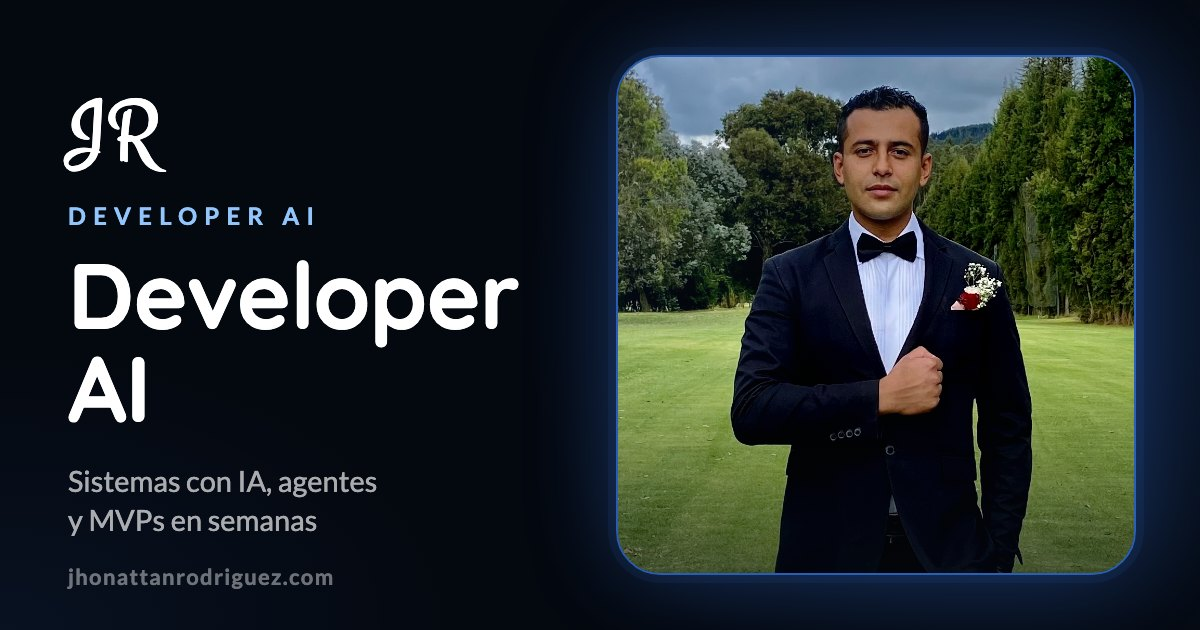
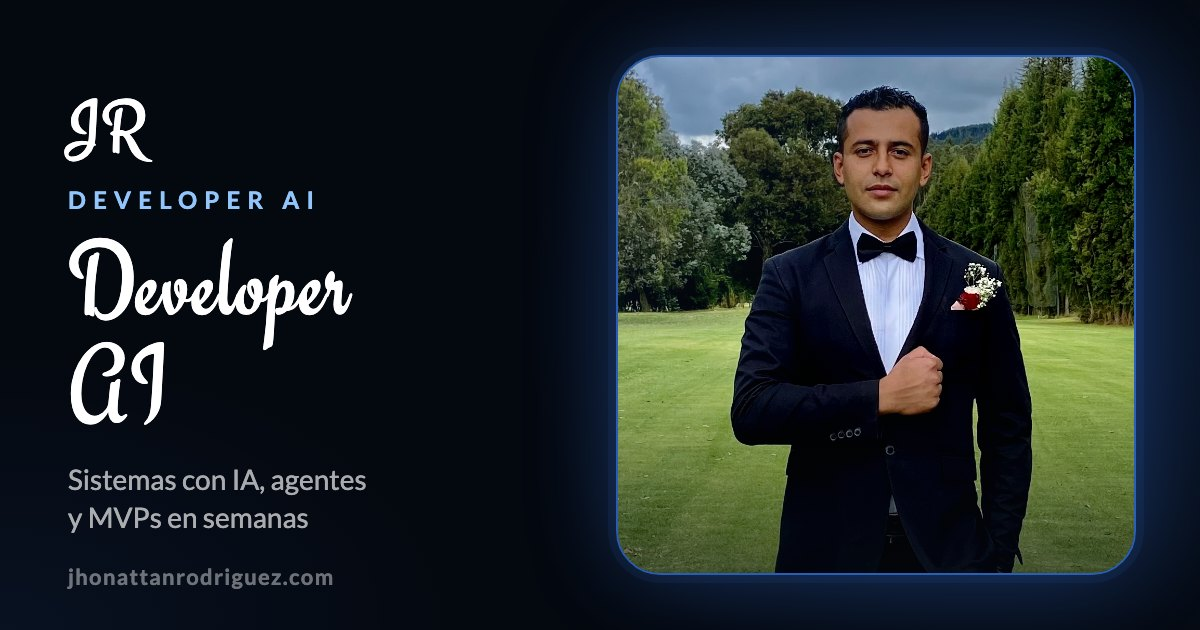
feat(seo): imagen de vista previa con el nombre en Engagement y texto de Meta Ads
- Las cuatro imágenes de compartir usan Engagement en el título, como el
  logo JR. La de Home suma "y entrenamientos en Meta Ads" en dos líneas.
- La URL de la imagen lleva ?v=2 (SHARE_IMAGE_VERSION en
  lib/site-metadata.ts) para que WhatsApp, Facebook y X no sigan mostrando
  la versión guardada en caché.

Changed region(s): [[0.0308, 0.3016, 0.4317, 0.6937], [0.0617, 0.7238, 0.3083, 0.8444], [0.0308, 0.1508, 0.1542, 0.2714]]

diff --git a/lib/site-metadata.ts b/lib/site-metadata.ts
@@ -9,6 +9,12 @@ export type ShareImageSlug = "home" | "growth" | "developer-ai" | "filmmaker";
 
 const SHARE_IMAGE_SIZE = { width: 1200, height: 630 } as const;
 
+/**
+ * Se añade como `?v=` a la URL de la imagen. Subirlo al cambiar un `.jpg` de `public/og/`:
+ * WhatsApp, Facebook y X guardan la imagen por URL y, sin esto, siguen mostrando la anterior.
+ */
+const SHARE_IMAGE_VERSION = 2;
+
 type ShareMetadataInput = {
   /** Ruta de la página, p. ej. `/growth`. Se resuelve contra `metadataBase`. */
   path: string;
@@ -32,7 +38,7 @@ export function shareMetadata({
   description,
   alt,
 }: ShareMetadataInput): Pick<Metadata, "openGraph" | "twitter" | "alternates"> {
-  const image = { url: `/og/${slug}.jpg`, ...SHARE_IMAGE_SIZE, alt };
+  const image = { url: `/og/${slug}.jpg?v=${SHARE_IMAGE_VERSION}`, ...SHARE_IMAGE_SIZE, alt };
   return {
     openGraph: {
       title,
